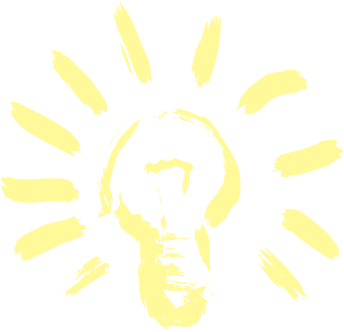
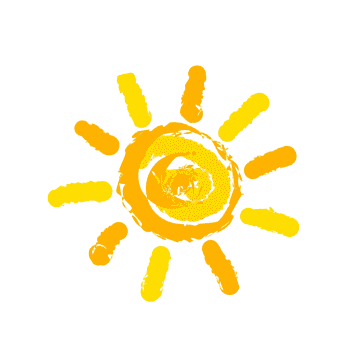
Update page

diff --git a/css/style.css b/css/style.css
@@ -39,7 +39,7 @@ img {
 body {
     background: #fff;
     color: #666666;
-    font-family: 'Roboto', sans-serif;
+    font-family: 'Nunito', sans-serif;
     -webkit-font-smoothing: antialiased;
     -webkit-text-size-adjust: 100%;
 }
@@ -80,6 +80,7 @@ h1 {
 }
 
 h2 {
+    font-family: 'Russo One', sans-serif;
     font-size: 36px;
     font-weight: 800;
     line-height: 1em;
@@ -104,15 +105,25 @@ h2 {
 }
 
 .sub-title {
+    font-family: 'Josefin Sans', sans-serif;
     color: wheat;
-    font-size: 18px;
+    font-size: 16px !important;
+    margin-top: 5px;
+    margin-bottom: 0px;
+    text-transform: uppercase;
+}
+
+.description {
+    font-family: 'Josefin Sans', sans-serif;
+    color: wheat;
+    font-size: 36px;
     margin-top: 5px;
     margin-bottom: 0px;
     text-transform: uppercase;
 }
 
 .copyright {
-    color: wheat;
+    color: rgb(33, 36, 65);
 }
 
 /* =Content Styles
@@ -162,7 +173,7 @@ h2 {
 
 /* Background */
 .background {
-    background: url(../images/background.jpg) no-repeat 50% 100%;
+    background: url(../images/background.png) no-repeat 50% 100%;
     bottom: -20px;
     background-size: cover;
     position: absolute;
@@ -172,18 +183,32 @@ h2 {
 }
 
 
-.sphere img {
+.sphere {
     -webkit-transform: scale(0.7);
     -moz-transform: scale(0.7);
     -ms-transform: scale(0.7, 0.7);
     transform: scale(0.7);
+    opacity: .1;
+    position: absolute;
+    left: 8%;
+    top: -30%;
 }
 
-/* .sphere-logo img {
+.character {
+    -webkit-transform: scale(0.7);
+    -moz-transform: scale(0.7);
+    -ms-transform: scale(0.7, 0.7);
+    transform: scale(0.7);
     position: absolute;
-    left: 20px;
-    top: 20px;
-} */
+    right: 5%;
+    bottom: 5%;
+}
+
+.sphere-logo {
+    position: absolute;
+    left: 5%;
+    top: 0;
+}
 
 /* Text */
 .title {
@@ -235,20 +260,22 @@ h2 {
     display: block;
     width: 25px;
     height: 25px;
-    opacity: .5;
-    -webkit-transition: opacity 0.3s;
+    /* opacity: .5; */
+    /* -webkit-transition: opacity 0.3s;
     -moz-transition: opacity 0.3s;
-    transition: opacity 0.3s;
+    transition: opacity 0.3s; */
     color: white;
     font-size: 30px;
+    margin: 5px;
 }
 
 
 .contact .icons li a:hover {
-    opacity: 1;
+    color: wheat;
+    /* opacity: 1;
     -webkit-transition: opacity 0.3s;
     -moz-transition: opacity 0.3s;
-    transition: opacity 0.3s;
+    transition: opacity 0.3s; */
 }
 
 .contact a.mail {

diff --git a/index.html b/index.html
@@ -45,6 +45,18 @@
       rel="stylesheet"
       type="text/css"
     />
+    <link
+      href="https://fonts.googleapis.com/css2?family=Nunito:wght@400;700&amp;display=swap"
+      rel="stylesheet"
+    />
+    <link
+      href="https://fonts.googleapis.com/css2?family=Russo+One&display=swap"
+      rel="stylesheet"
+    />
+    <link
+      href="https://fonts.googleapis.com/css2?family=Josefin+Sans&display=swap"
+      rel="stylesheet"
+    />
     <!-- Styles -->
     <link href="css/loader.css" rel="stylesheet" type="text/css" />
     <link href="css/normalize.css" rel="stylesheet" type="text/css" />
@@ -96,23 +108,24 @@
           </div>
         </li>
 
-        <li class="layer" data-depth="0.25">
-          <div class="sphere">
-            <img alt="sphere" src="images/solarite.png" />
+        <li class="layer" data-depth="0.20">
+          <div class="character">
+            <img alt="character" src="images/character.png" />
           </div>
         </li>
 
-        <!-- <li class="layer" data-depth="0.25">
-          <div class="sphere sphere-logo">
+        <li class="layer" data-depth="0.25">
+          <div class="sphere-logo">
             <img alt="sphere" src="images/solarite.png" />
           </div>
-        </li> -->
+        </li>
 
         <li class="layer" data-depth="0.30">
           <div class="hero">
             <h1 id="countdown">Coming Soon</h1>
 
             <p class="sub-title">Coming Soon!</p>
+            <p class="description">A NEW ERA OF DEFI</p>
           </div>
         </li>
         <!-- Flakes -->

diff --git a/css/loader.css b/css/loader.css
@@ -2,7 +2,7 @@
 -------------------------------------------------------------- */
 
 .preloader {
-	display: block;
+    display: block;
     position: fixed;
     width: 100%;
     height: 100%;
@@ -10,27 +10,28 @@
     background: white;
     text-align: center;
 }
+
 .loading {
-	overflow: hidden;
-	position: absolute;
-	top: 50%;
-	margin-top: -12px;
-	left: 50%;
-	margin-left: -50px;
-	width: 100px;
-	height: 24px;
+    overflow: hidden;
+    position: absolute;
+    top: 50%;
+    margin-top: -12px;
+    left: 50%;
+    margin-left: -50px;
+    width: 300px;
+    height: 50px;
 }
 
 .progress {
-	display: block;
-	position: absolute;
-	bottom: 0;
-	overflow: hidden;
-	width: 100px;
-	height: 1px;
-	left: -102px;
-	background-color: #00d9ec;
-	-webkit-animation: loader-anim 1s 0s infinite cubic-bezier(0.785, 0.135, 0.15, 0.86);
+    display: block;
+    position: absolute;
+    bottom: 0;
+    overflow: hidden;
+    width: 100px;
+    height: 1px;
+    left: -102px;
+    background-color: #00d9ec;
+    -webkit-animation: loader-anim 1s 0s infinite cubic-bezier(0.785, 0.135, 0.15, 0.86);
     -moz-animation: loader-anim 1s 0s infinite cubic-bezier(0.785, 0.135, 0.15, 0.86);
     animation: loader-anim 1s 0s infinite cubic-bezier(0.785, 0.135, 0.15, 0.86)
 }
